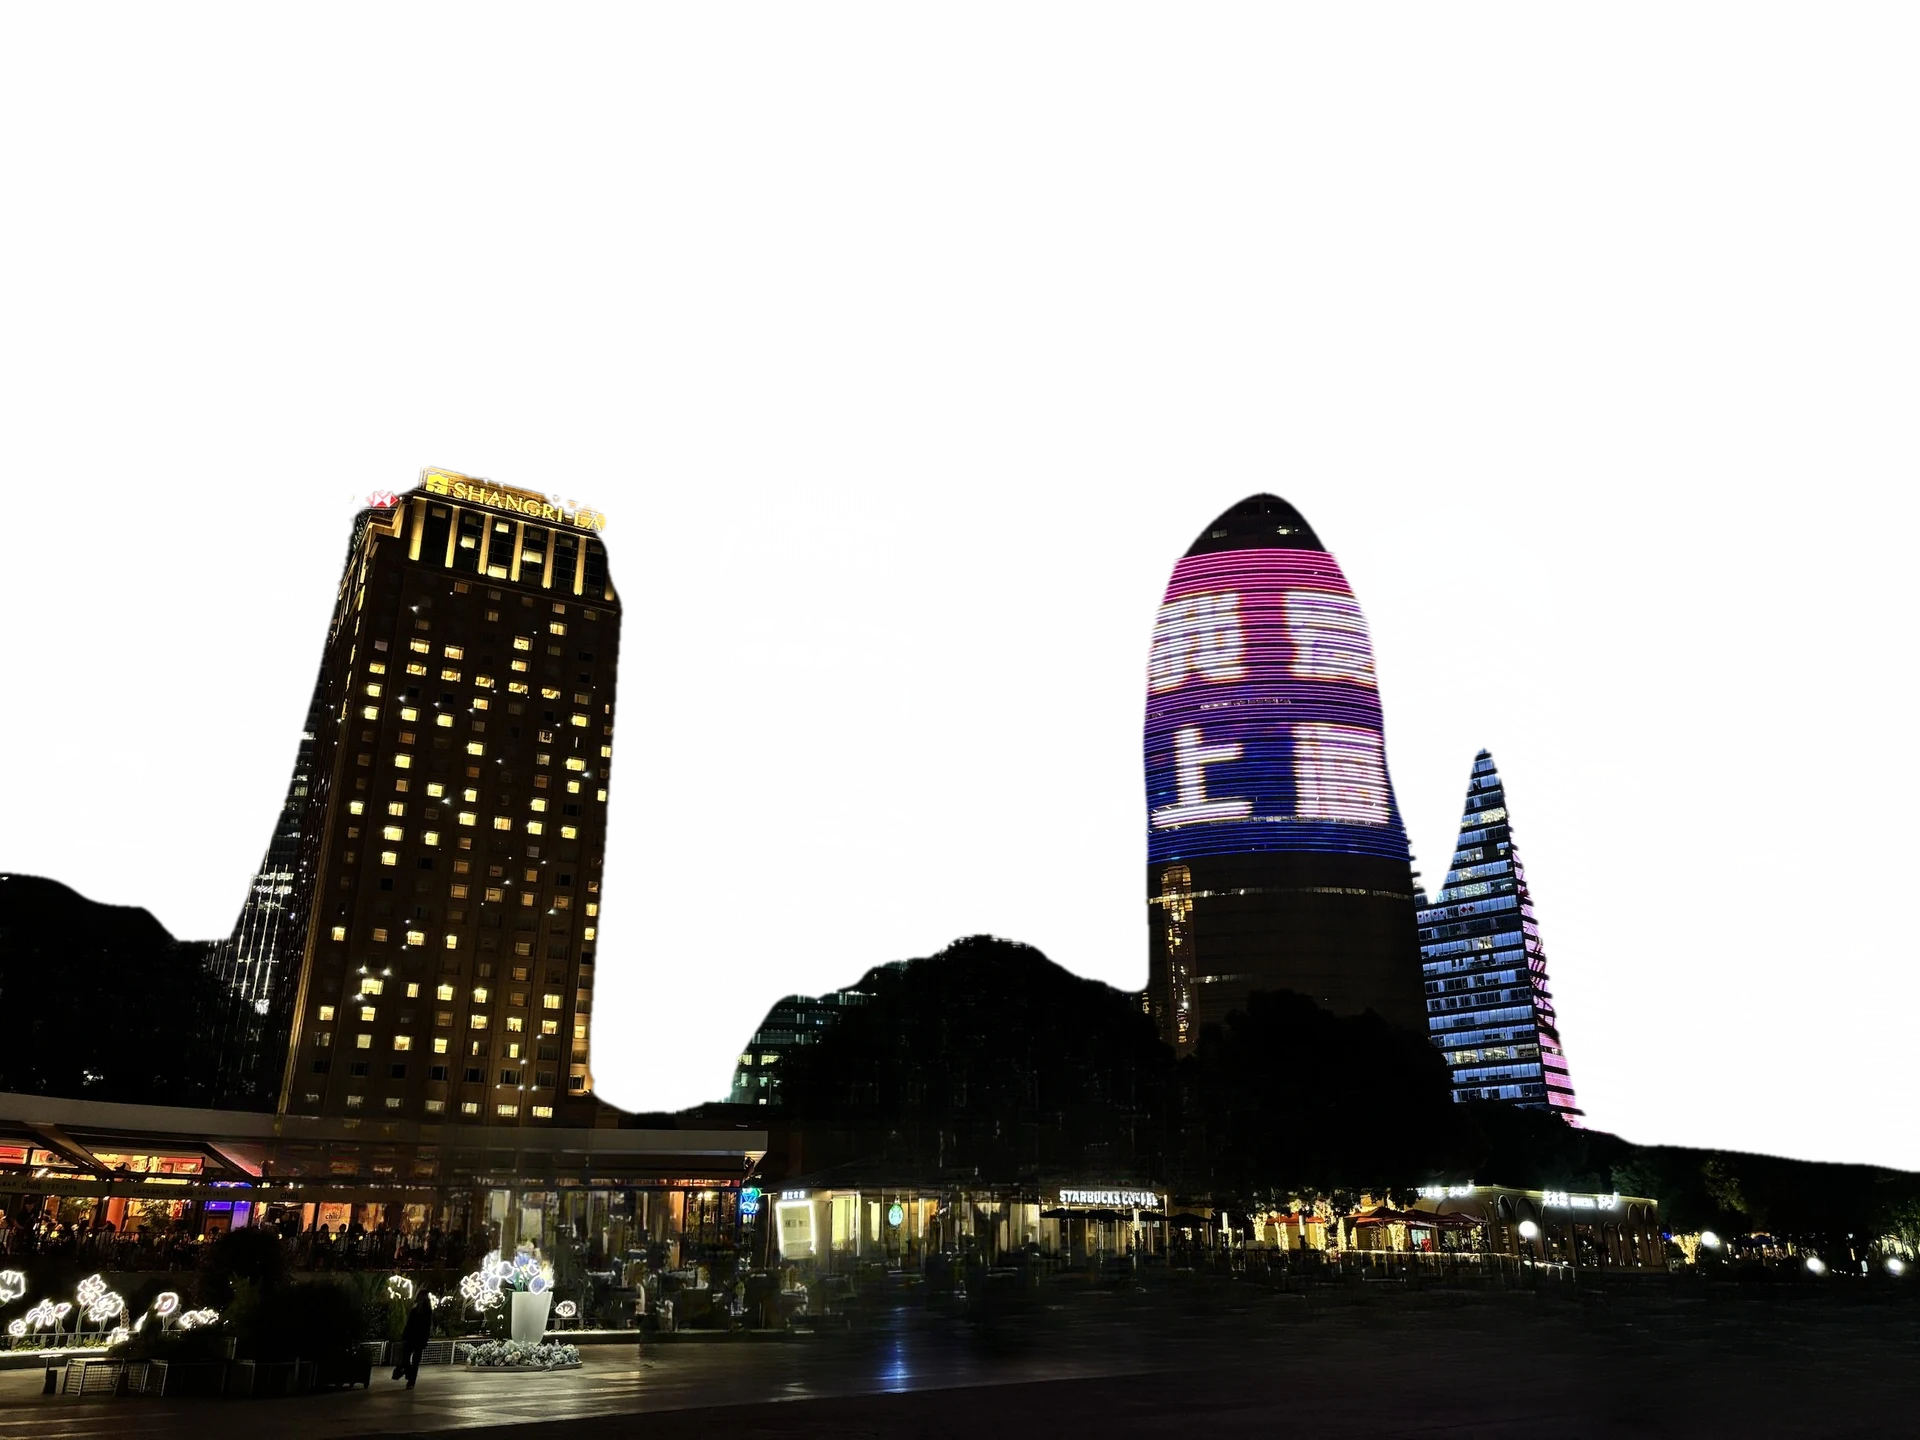
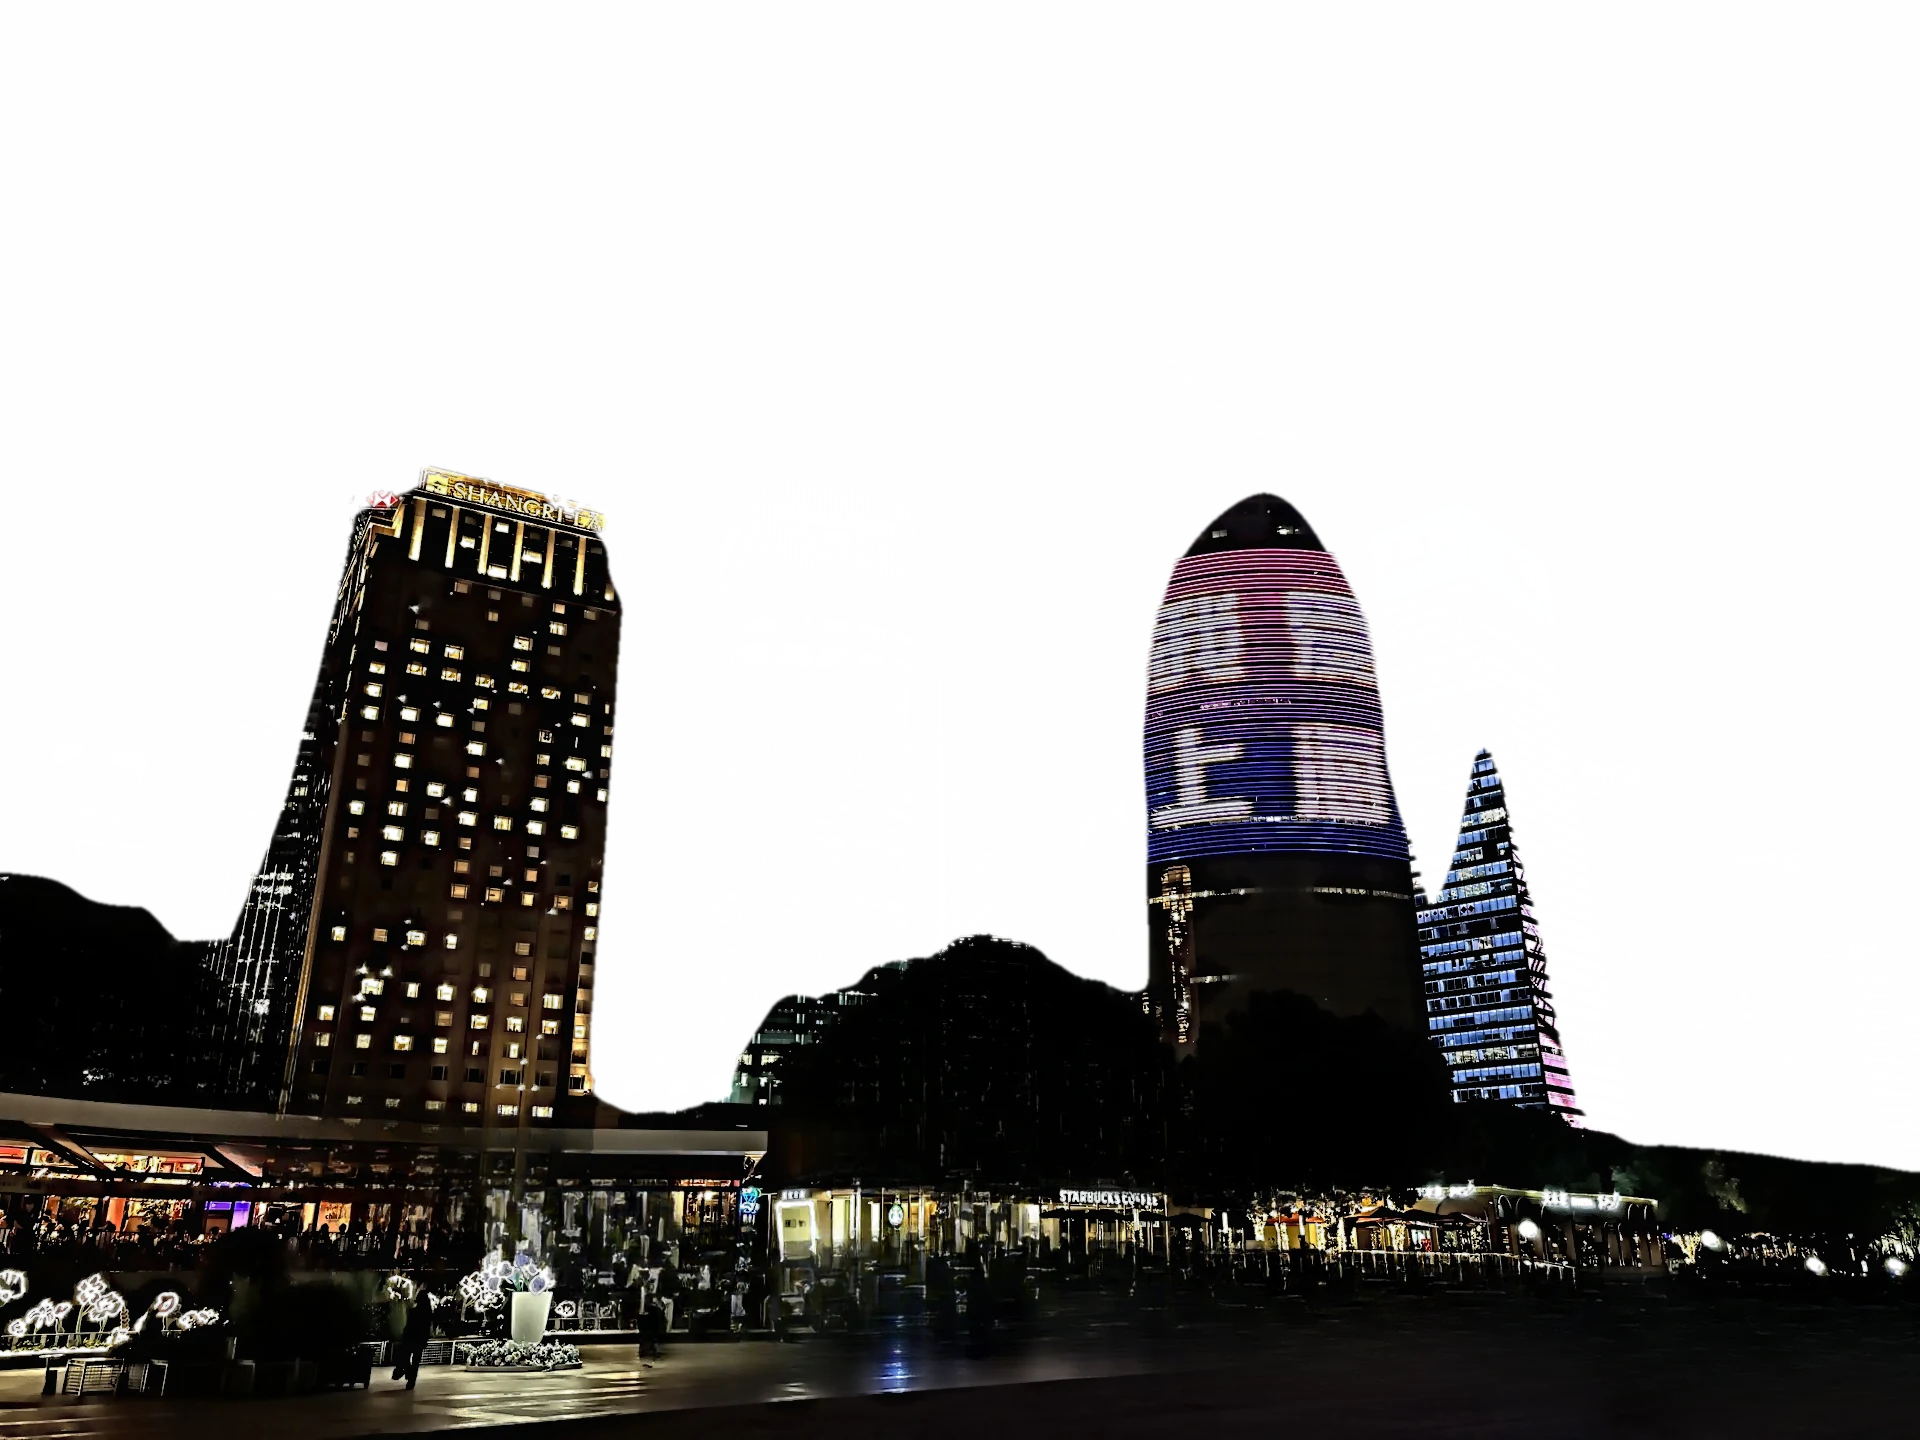
Lab rue : traitement « dessin » (aplats, contraste local, trait) sur les photos personnelles
Claude-Session: https://claude.ai/code/session_013Xw59nF2gje1EUSeavtxjp

diff --git a/scripts/rue/dessin.py b/scripts/rue/dessin.py
@@ -1,0 +1,41 @@
+"""Traitement « dessin » optionnel (scene.json "dessin": 0..1).
+
+Donne aux photos le rendu illustré des photos HDR de la rotation : aplats
+(lissage qui préserve les bords), contraste local fort, saturation un peu plus
+franche sans changer les teintes, léger trait sur les contours nets. Les zones
+lisses (ciel, brume) gardent leur dégradé. Appliqué aux couleurs des plans
+seulement : profondeur et masques restent calculés sur la photo d'origine.
+Entrée et sortie en BGR.
+"""
+import cv2, numpy as np, sys
+def dessin(bgr, a=1.0):
+    # 1. aplats : lissage qui préserve les bords (texture -> zones peintes)
+    flat = cv2.edgePreservingFilter(bgr, flags=cv2.RECURS_FILTER, sigma_s=40, sigma_r=0.25)
+    # 2. contraste local fort (rendu HDR / illustration)
+    det = cv2.detailEnhance(flat, sigma_s=12, sigma_r=0.2)
+    lab = cv2.cvtColor(det, cv2.COLOR_BGR2LAB)
+    l, A, B = cv2.split(lab)
+    l = cv2.createCLAHE(clipLimit=2.2, tileGridSize=(8, 8)).apply(l)
+    out = cv2.cvtColor(cv2.merge([l, A, B]), cv2.COLOR_LAB2BGR)
+    # 3. saturation un peu plus franche, sans changer les teintes
+    hsv = cv2.cvtColor(out, cv2.COLOR_BGR2HSV).astype(np.float32)
+    hsv[..., 1] = np.clip(hsv[..., 1] * 1.18, 0, 255)
+    out = cv2.cvtColor(hsv.astype(np.uint8), cv2.COLOR_HSV2BGR)
+    # 4. léger trait d'encre sur les contours nets
+    g = cv2.cvtColor(flat, cv2.COLOR_BGR2GRAY)
+    e = cv2.Canny(g, 60, 140)
+    e = cv2.GaussianBlur(e, (3, 3), 0).astype(np.float32)[..., None] / 255
+    out = (out.astype(np.float32) * (1 - 0.35 * e)).clip(0, 255)
+    # 5. les zones lisses (ciel, brume, eau calme) gardent un dégradé propre :
+    # le contraste local y dessinerait des courbes de niveau.
+    gs = cv2.cvtColor(bgr, cv2.COLOR_BGR2GRAY).astype(np.float32)
+    m = cv2.GaussianBlur(gs, (0, 0), 6)
+    sd = np.sqrt(np.maximum(cv2.GaussianBlur(gs * gs, (0, 0), 6) - m * m, 0))
+    w = np.clip((sd - 4) / 10, 0, 1)
+    w = cv2.GaussianBlur(w, (0, 0), 8)[..., None]
+    soft = cv2.GaussianBlur(bgr, (0, 0), 1.2).astype(np.float32)
+    hs = cv2.cvtColor(soft.astype(np.uint8), cv2.COLOR_BGR2HSV).astype(np.float32)
+    hs[..., 1] = np.clip(hs[..., 1] * 1.18, 0, 255)
+    soft = cv2.cvtColor(hs.astype(np.uint8), cv2.COLOR_HSV2BGR).astype(np.float32)
+    out = out * w + soft * (1 - w)
+    return cv2.addWeighted(out.clip(0, 255).astype(np.uint8), a, bgr, 1 - a, 0)

diff --git a/scripts/rue/03_layers.py b/scripts/rue/03_layers.py
@@ -21,6 +21,7 @@ import numpy as np
 import onnxruntime as ort
 
 from common import MODELS, OUT, WORK, load_rgb, scene
+from dessin import dessin
 
 T = scene()["thresholds"]   # fond | milieu | proche | premier plan
 BAND = 150         # px révélables au plus par la caméra (travelling et avancée)
@@ -28,6 +29,8 @@ FRINGE = 5         # px de liseré de l'objet retiré avec lui (halo de couleur)
 
 img = load_rgb()
 H, W = img.shape[:2]
+if scene().get("dessin"):
+    img = dessin(img[..., ::-1].copy(), float(scene()["dessin"]))[..., ::-1].copy()
 depth = np.load(WORK / "depth.npy")
 
 # Zones « aplaties » (scene.json flatten = [[x0,y0,x1,y1]]) : des passants
